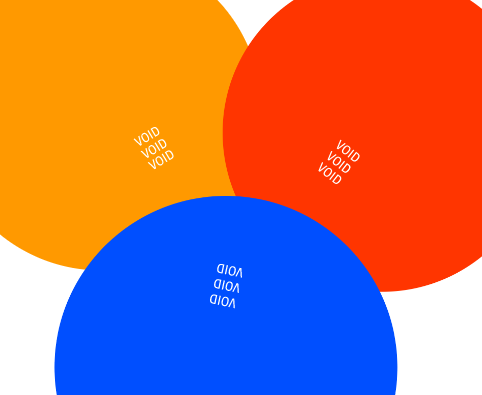
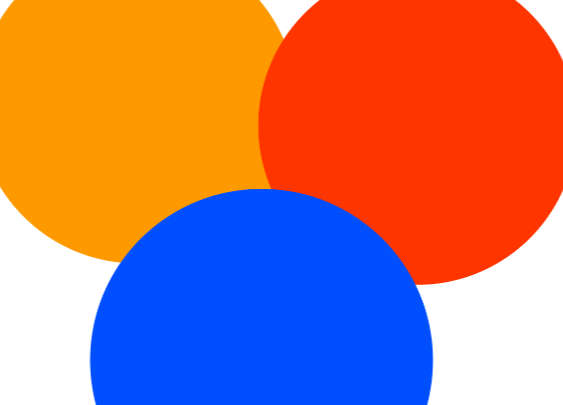
1.2.4

diff --git a/index.html b/index.html
@@ -8,23 +8,23 @@
 <link href="index.css" rel="stylesheet" type="text/css">
 </head>
 <body>
-<div id="wb_Image1" style="position:absolute;left:100px;top:0px;width:965px;height:790px;z-index:0;">
+<div id="wb_Image1" style="position:absolute;left:50px;top:148px;width:1105px;height:869px;z-index:0;">
 <img src="images/img0006.png" id="Image1" alt=""></div>
-<div id="wb_Shape8" style="position:absolute;left:416px;top:227px;width:276px;height:366px;z-index:1;">
+<div id="wb_Shape8" style="position:absolute;left:416px;top:442px;width:276px;height:366px;z-index:1;">
 <img src="images/img0001.png" id="Shape8" alt="" style="width:276px;height:366px;"></div>
-<div id="wb_Shape5" style="position:absolute;left:422px;top:227px;width:276px;height:366px;z-index:2;">
+<div id="wb_Shape5" style="position:absolute;left:420px;top:442px;width:276px;height:366px;z-index:2;">
 <img src="images/img0009.png" id="Shape5" alt="" style="width:276px;height:366px;"></div>
-<div id="wb_Shape1" style="position:absolute;left:0px;top:115px;width:410px;height:538px;z-index:3;">
-<img src="images/img0002.png" id="Shape1" alt="" style="width:410px;height:538px;"></div>
-<div id="wb_Shape3" style="position:absolute;left:708px;top:114px;width:443px;height:915px;z-index:4;">
-<img src="images/img0004.png" id="Shape3" alt="" style="width:443px;height:915px;"></div>
-<div id="wb_Shape2" style="position:absolute;left:0px;top:650px;width:945px;height:379px;z-index:5;">
+<div id="wb_Shape1" style="position:absolute;left:0px;top:327px;width:410px;height:541px;z-index:3;">
+<img src="images/img0002.png" id="Shape1" alt="" style="width:410px;height:541px;"></div>
+<div id="wb_Shape3" style="position:absolute;left:708px;top:329px;width:506px;height:915px;z-index:4;">
+<img src="images/img0004.png" id="Shape3" alt="" style="width:506px;height:915px;"></div>
+<div id="wb_Shape2" style="position:absolute;left:0px;top:865px;width:945px;height:379px;z-index:5;">
 <img src="images/img0003.png" id="Shape2" alt="" style="width:945px;height:379px;"></div>
-<div id="wb_Image3" style="position:absolute;left:429px;top:230px;width:160px;height:126px;z-index:6;">
+<div id="wb_Image3" style="position:absolute;left:429px;top:445px;width:160px;height:126px;z-index:6;">
 <img src="images/img0010.png" id="Image3" alt=""></div>
-<div id="wb_Shape7" style="position:absolute;left:429px;top:356px;width:263px;height:94px;z-index:7;">
+<div id="wb_Shape7" style="position:absolute;left:429px;top:571px;width:263px;height:94px;z-index:7;">
 <img src="images/img0007.png" id="Shape7" alt="" style="width:263px;height:94px;"></div>
-<div id="wb_JavaScript1" style="position:absolute;left:423px;top:396px;width:246px;height:25px;z-index:8;">
+<div id="wb_JavaScript1" style="position:absolute;left:423px;top:611px;width:246px;height:25px;z-index:8;">
 <div style="color:#FFFFFF;font-size:16px;font-family:Lucida Sans Unicode;font-weight:normal;font-style:normal;text-align:left;text-decoration:none" id="basicdate"></div>
 <script type="text/javascript">
    var now = new Date();
@@ -39,7 +39,7 @@
 
 
 </div>
-<div id="wb_JavaScript2" style="position:absolute;left:566px;top:424px;width:126px;height:25px;z-index:9;">
+<div id="wb_JavaScript2" style="position:absolute;left:566px;top:639px;width:126px;height:25px;z-index:9;">
 <div style="color:#FFFFFF;font-size:16px;font-family:Lucida Sans Unicode;font-weight:normal;font-style:normal;text-align:left;text-decoration:none" id="countdown"></div>
 <script type="text/javascript">
 var strTargetDate = "12/25/2050 12:00 AM";
@@ -76,51 +76,45 @@ initCountDown();
 </script>
 
 </div>
-<div id="wb_Text1" style="position:absolute;left:438px;top:425px;width:151px;height:18px;z-index:10;text-align:left;">
+<div id="wb_Text1" style="position:absolute;left:438px;top:640px;width:151px;height:18px;z-index:10;text-align:left;">
 <span style="color:#FFFFFF;font-family:'Lucida Sans Unicode';font-size:15px;">Time remaining</span></div>
-<div id="wb_Image7" style="position:absolute;left:455px;top:364px;width:69px;height:26px;z-index:11;">
+<div id="wb_Image7" style="position:absolute;left:455px;top:579px;width:69px;height:26px;z-index:11;">
 <img src="images/activesince.png" id="Image7" alt=""></div>
-<div id="wb_Image2" style="position:absolute;left:589px;top:326px;width:103px;height:26px;z-index:12;">
+<div id="wb_Image2" style="position:absolute;left:589px;top:541px;width:103px;height:26px;z-index:12;">
 <img src="images/Stagecoach-logo.png" id="Image2" alt=""></div>
-<div id="wb_Image5" style="position:absolute;left:437px;top:366px;width:12px;height:20px;z-index:13;">
+<div id="wb_Image5" style="position:absolute;left:437px;top:581px;width:12px;height:20px;z-index:13;">
 <img src="images/LogoMakr_2aZAlB.png" id="Image5" alt=""></div>
-<div id="wb_Shape6" style="position:absolute;left:429px;top:458px;width:263px;height:33px;z-index:14;">
+<div id="wb_Shape6" style="position:absolute;left:429px;top:673px;width:263px;height:33px;z-index:14;">
 <img src="images/img0008.png" id="Shape6" alt="" style="width:263px;height:33px;"></div>
-<div id="wb_Shape9" style="position:absolute;left:429px;top:490px;width:263px;height:52px;z-index:15;">
+<div id="wb_Shape9" style="position:absolute;left:429px;top:705px;width:263px;height:52px;z-index:15;">
 <img src="images/img0011.png" id="Shape9" alt="" style="width:263px;height:52px;"></div>
-<div id="wb_Image4" style="position:absolute;left:433px;top:466px;width:11px;height:14px;z-index:16;">
+<div id="wb_Image4" style="position:absolute;left:433px;top:681px;width:11px;height:14px;z-index:16;">
 <img src="images/location.png" id="Image4" alt=""></div>
-<div id="wb_Text2" style="position:absolute;left:455px;top:466px;width:213px;height:16px;z-index:17;text-align:left;">
+<div id="wb_Text2" style="position:absolute;left:455px;top:681px;width:213px;height:16px;z-index:17;text-align:left;">
 <span style="color:#4169E1;font-family:'Lucida Sans Unicode';font-size:13px;">Areas this ticket covers</span></div>
-<div id="wb_Shape10" style="position:absolute;left:606px;top:464px;width:11px;height:17px;z-index:18;">
+<div id="wb_Shape10" style="position:absolute;left:606px;top:679px;width:11px;height:17px;z-index:18;">
 <img src="images/img0012.png" id="Shape10" alt="" style="width:11px;height:17px;"></div>
-<div id="wb_Image6" style="position:absolute;left:434px;top:501px;width:14px;height:14px;z-index:19;">
+<div id="wb_Image6" style="position:absolute;left:434px;top:716px;width:14px;height:14px;z-index:19;">
 <img src="images/info.png" id="Image6" alt=""></div>
-<div id="wb_Text3" style="position:absolute;left:454px;top:499px;width:230px;height:15px;z-index:20;text-align:left;">
+<div id="wb_Text3" style="position:absolute;left:454px;top:714px;width:230px;height:15px;z-index:20;text-align:left;">
 <span style="color:#000000;font-family:'Lucida Sans Unicode';font-size:11px;">Travel between 00:00 until 04:00</span></div>
-<div id="wb_Shape11" style="position:absolute;left:424px;top:392px;width:66px;height:31px;z-index:21;">
+<div id="wb_Shape11" style="position:absolute;left:424px;top:607px;width:66px;height:31px;z-index:21;">
 <img src="images/img0013.png" id="Shape11" alt="" style="width:66px;height:31px;"></div>
-<div id="wb_Shape12" style="position:absolute;left:423px;top:356px;width:8px;height:102px;z-index:22;">
+<div id="wb_Shape12" style="position:absolute;left:423px;top:571px;width:8px;height:102px;z-index:22;">
 <img src="images/img0014.png" id="Shape12" alt="" style="width:8px;height:102px;"></div>
-<div id="wb_Text4" style="position:absolute;left:440px;top:395px;width:94px;height:21px;z-index:23;text-align:left;">
+<div id="wb_Text4" style="position:absolute;left:440px;top:610px;width:94px;height:21px;z-index:23;text-align:left;">
 <span style="color:#FFFFFF;font-family:'Lucida Sans Unicode';font-size:17px;">09:36,</span></div>
-<div id="wb_Text5" style="position:absolute;left:455px;top:518px;width:230px;height:15px;z-index:24;text-align:left;">
+<div id="wb_Text5" style="position:absolute;left:455px;top:733px;width:230px;height:15px;z-index:24;text-align:left;">
 <span style="color:#4169E1;font-family:'Lucida Sans Unicode';font-size:11px;"><strong>Terms &amp; Conditions</strong></span></div>
-<div id="wb_Text6" style="position:absolute;left:430px;top:552px;width:239px;height:32px;z-index:25;text-align:left;">
+<div id="wb_Text6" style="position:absolute;left:430px;top:767px;width:239px;height:32px;z-index:25;text-align:left;">
 <span style="color:#A9A9A9;font-family:Arial;font-size:13px;">Order Number:<br>1529-287649337377465395-443</span></div>
-<div id="wb_Shape13" style="position:absolute;left:539px;top:152px;width:35px;height:35px;z-index:26;">
-<img src="images/img0015.png" id="Shape13" alt="" style="width:35px;height:35px;"></div>
-<div id="wb_Shape14" style="position:absolute;left:546px;top:160px;width:21px;height:20px;z-index:27;">
-<img src="images/img0016.png" id="Shape14" alt="" style="width:21px;height:20px;"></div>
-<div id="wb_Shape16" style="position:absolute;left:550px;top:161px;width:15px;height:16px;z-index:28;">
-<img src="images/img0017.png" id="Shape16" alt="" style="width:15px;height:16px;"></div>
-<div id="wb_Shape15" style="position:absolute;left:551px;top:164px;width:11px;height:10px;z-index:29;">
-<img src="images/img0018.png" id="Shape15" alt="" style="width:11px;height:10px;"></div>
-<div id="wb_Shape17" style="position:absolute;left:418px;top:126px;width:26px;height:26px;filter:alpha(opacity=50);-moz-opacity:0.50;opacity:0.50;z-index:30;">
+<div id="wb_Shape17" style="position:absolute;left:418px;top:341px;width:26px;height:26px;filter:alpha(opacity=50);-moz-opacity:0.50;opacity:0.50;z-index:26;">
 <img src="images/img0019.png" id="Shape17" alt="" style="width:26px;height:26px;"></div>
-<div id="wb_Shape18" style="position:absolute;left:425px;top:133px;width:12px;height:12px;z-index:31;">
+<div id="wb_Shape18" style="position:absolute;left:425px;top:348px;width:12px;height:12px;z-index:27;">
 <img src="images/img0020.png" id="Shape18" alt="" style="width:12px;height:12px;"></div>
-<div id="wb_Shape4" style="position:absolute;left:0px;top:0px;width:1151px;height:120px;z-index:32;">
-<img src="images/img0005.png" id="Shape4" alt="" style="width:1151px;height:120px;"></div>
+<div id="wb_Shape4" style="position:absolute;left:0px;top:0px;width:1214px;height:334px;z-index:28;">
+<img src="images/img0005.png" id="Shape4" alt="" style="width:1214px;height:334px;"></div>
+<div id="wb_Image8" style="position:absolute;left:546px;top:373px;width:28px;height:28px;z-index:29;">
+<img src="images/triangles.png" id="Image8" alt=""></div>
 </body>
 </html>

diff --git a/index.css b/index.css
@@ -183,22 +183,6 @@ body
 {
    text-align: left;
 }
-#Shape13
-{
-   border-width: 0;
-}
-#Shape14
-{
-   border-width: 0;
-}
-#Shape16
-{
-   border-width: 0;
-}
-#Shape15
-{
-   border-width: 0;
-}
 #Shape17
 {
    border-width: 0;
@@ -210,4 +194,16 @@ body
 #Shape4
 {
    border-width: 0;
+}
+#Image8
+{
+   border: 0px #000000 solid;
+   -webkit-animation: transform-rotate 9999ms linear 0ms 500 normal;
+   -moz-animation: transform-rotate 9999ms linear 0ms 500 normal;
+   -ms-animation: transform-rotate 9999ms linear 0ms 500 normal;
+   animation: transform-rotate 9999ms linear 0ms 500 normal;
+   left: 0;
+   top: 0;
+   width: 100%;
+   height: 100%;
 }
